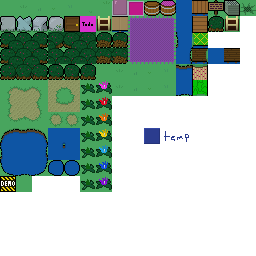
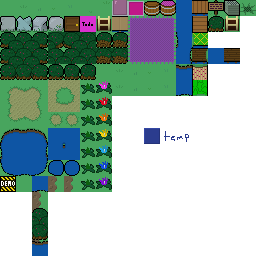
manicure a few edges

Changed region(s): [[0.125, 0.6875, 0.3125, 1.0]]

diff --git a/README.md b/README.md
@@ -47,7 +47,7 @@ Requires [Egg](https://github.com/aksommerville/egg2) to build.
 - [x] Passing thru an unopened buried door backward should open it. eg you can reach the south jungle heart container with snowglobe instead of shovel.
 - [x] Ignore dpad as the pause modal closes. Sometimes I register an extra stroke after dismissing.
 - [x] 10-key modal, at the surveyor puzzle, failed to wrap position downward.
-- [ ] Look for incomplete edges in the outerworld. I know at least the jungle/isthmus junction is still unfinished.
+- [x] Look for incomplete edges in the outerworld. I know at least the jungle/isthmus junction is still unfinished.
 - [ ] Lengthen `break_soil`. It's going to be playing over and over on the cab at GDEX, we're going to get very sick of it.
 - [x] What happens if you straight up abandon the Princess on the way back from a walk, but do enter the castle? Needs to be some distance threshold where the walk doesn't count.
 - - ...and now that I think about it, this applies to the rescue quest too.
